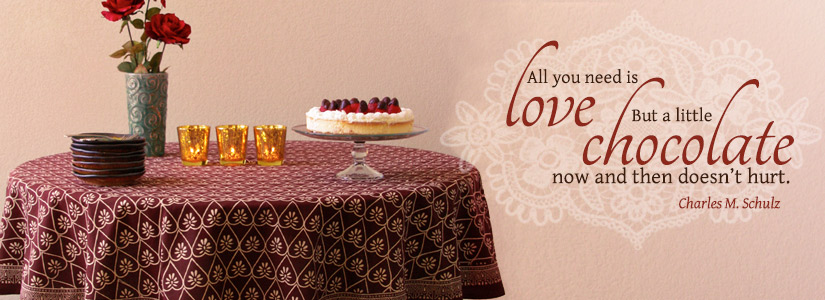
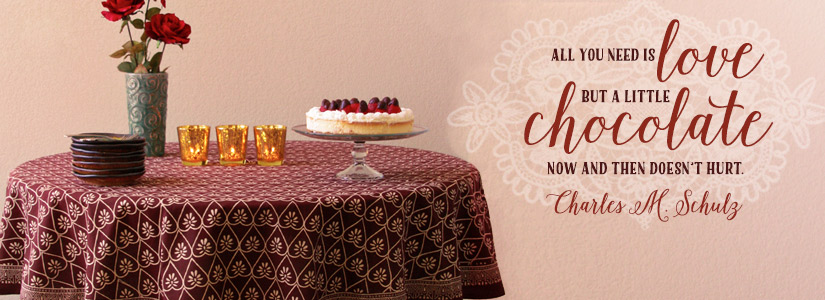
Set Valentine's series as featured. Update 'updated...' badge for 2015.

Changed region(s): [[0.5152, 0.06, 0.9697, 0.75], [0.7576, 0.75, 0.7879, 0.81]]

diff --git a/custom/custom_functions.php b/custom/custom_functions.php
@@ -147,7 +147,7 @@ add_filter( 'thesis_img_caption_shortcode', 'cleaner_caption', 10, 3);
 ******************************/
 
 // Set featured category here
-$featured_series = 130;
+$featured_series = 114;
 $featured = get_term_by('id', $featured_series, 'category');
 
 // Return a more logical slug for categories (will relate to folder locations in theme)
@@ -732,9 +732,9 @@ class archive_looper extends thesis_custom_loop {
                     <h2><?php echo $subcategory->name; ?></h2>
                     <?php // Currently featured category should show an "Updated for..." badge
                         global $featured;
-                        if ( $subcategory->term_id == $featured->term_id ):
+                        if( $subcategory->term_id == $featured->term_id ):
                     ?>
-                        <img class="badge" src="<?php bloginfo(stylesheet_directory); ?>/custom/images/updated-for-2014.png" alt="Updated for 2014"/>
+                        <img class="badge" src="<?php bloginfo(stylesheet_directory); ?>/custom/images/updated-for-2015.png" alt="Updated for 2015"/>
                     <?php endif; ?>
                     <p class="read-more"><a href="<?php echo get_category_link($subcategory->term_id); ?>">Read more</a></p>
                     <a class="div-link" href="<?php echo get_category_link($subcategory->term_id); ?>"></a>
